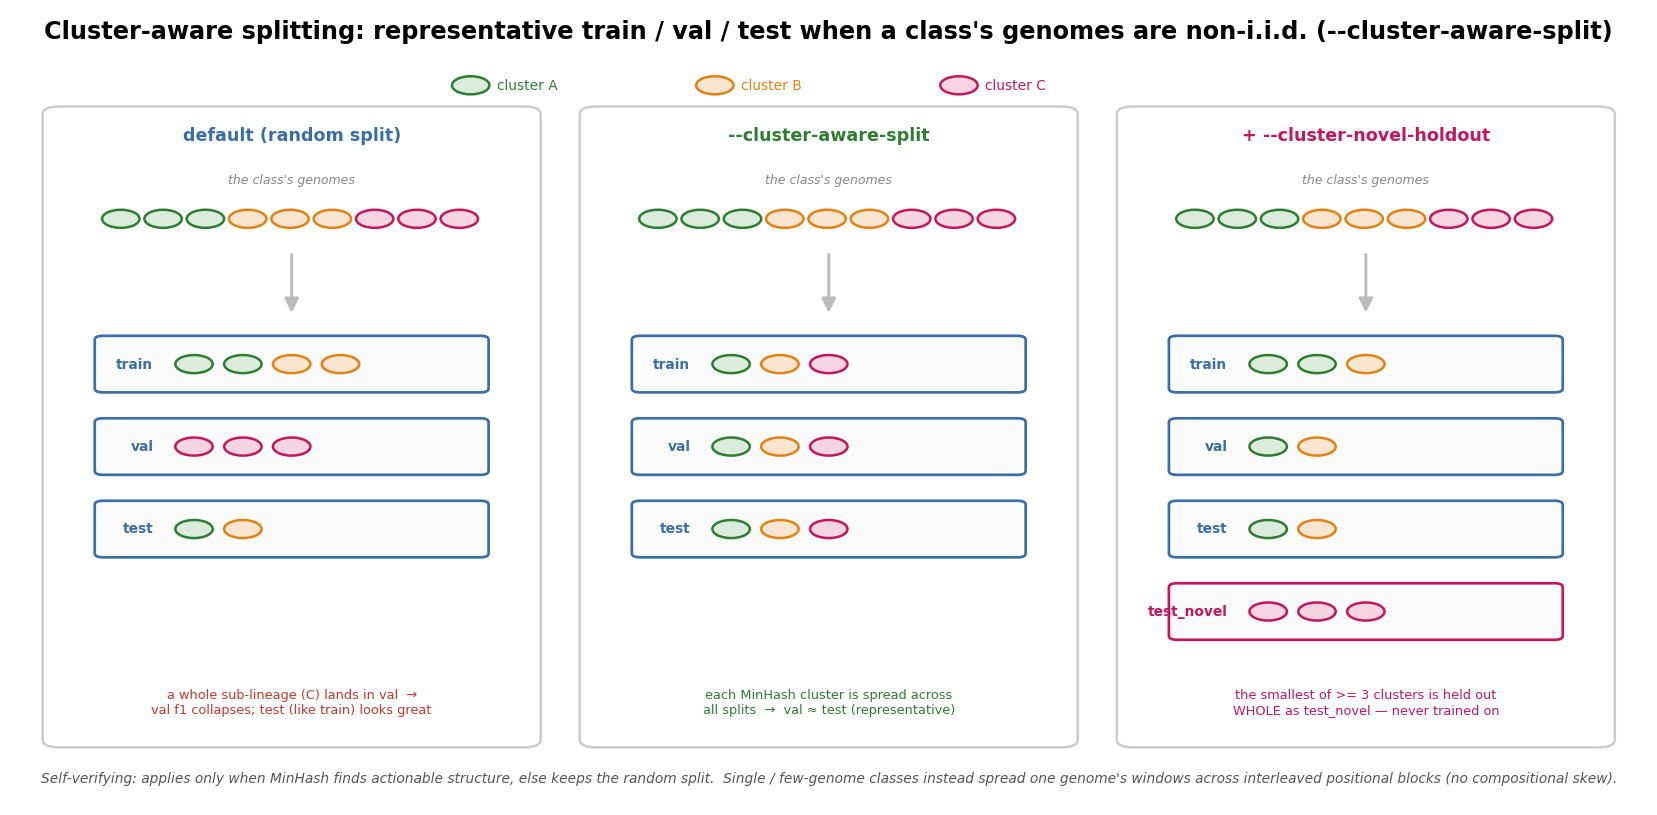
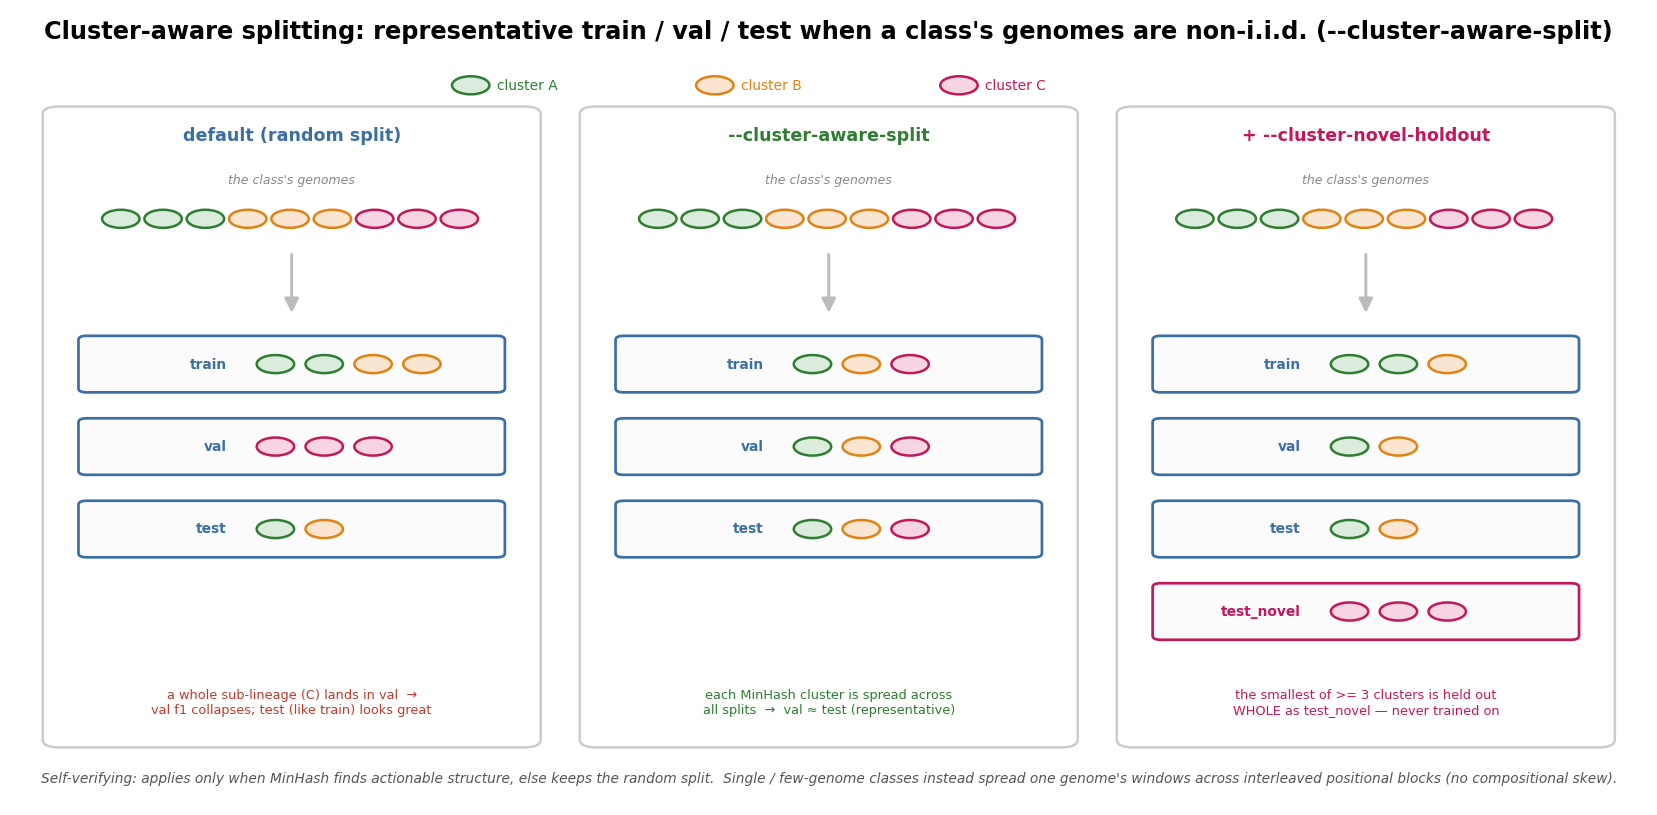
docs(figure): fix test_novel label overlapping the cluster-C dots
Right-align all bin labels at a common edge (px+11) with the dots pushed right
(px+14) so the longest label ("test_novel") clears them; widen the bin box to
match. Layout-only.

diff --git a/docs/make_figures.py b/docs/make_figures.py
@@ -976,13 +976,15 @@ def fig_cluster_aware_split() -> None:
 
     def bin_box(px, by, lab, contents):
         ec = PINK if lab == "test_novel" else BLUE
-        ax.add_patch(FancyBboxPatch((px + 3, by), 24, 7,
+        ax.add_patch(FancyBboxPatch((px + 2, by), 26, 7,
                      boxstyle="round,pad=0.1,rounding_size=0.5",
                      fc="#fbfbfb", ec=ec, lw=1.3))
-        ax.text(px + 6.5, by + 3.5, lab, ha="right", va="center",
+        # Labels right-aligned at a common edge (px + 11), wide enough for the
+        # longest ("test_novel"); dots start well clear of it so nothing overlaps.
+        ax.text(px + 11, by + 3.5, lab, ha="right", va="center",
                 fontsize=6.6, weight="bold", color=ec)
         for i, c in enumerate(contents):
-            dot(px + 9 + i * 3.0, by + 3.5, c)
+            dot(px + 14 + i * 3.0, by + 3.5, c)
 
     panels = [
         (2, "default (random split)", BLUE,